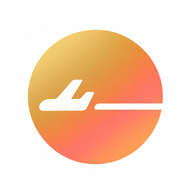
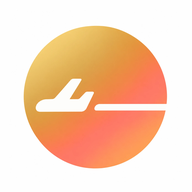
主圖示改為原尺寸縮小 10%（原本 15% 太多）(v2026.10.30.25)

diff --git a/app.js b/app.js
@@ -4,7 +4,7 @@
 ═══════════════════════════════════════ */
 
 /* 版本號：顯示在「設定」頁最下方，每次推送更新時一起遞增，用來確認手機拿到的是不是最新版 */
-const APP_VERSION = '2026.10.30.24';
+const APP_VERSION = '2026.10.30.25';
 
 /* ─── SVG Icon Strings ─── */
 const EDIT_SVG  = `<svg xmlns="http://www.w3.org/2000/svg" viewBox="0 -960 960 960"><path d="M200-200h57l391-391-57-57-391 391v57Zm-80 80v-170l528-527q12-11 26.5-17t30.5-6q16 0 31 6t26 18l55 56q12 11 17.5 26t5.5 30q0 16-5.5 30.5T817-647L290-120H120Zm640-584-56-56 56 56Zm-141 85-28-29 57 57-29-28Z"/></svg>`;

diff --git a/index.html b/index.html
@@ -8,8 +8,8 @@
   <meta name="apple-mobile-web-app-title" content="旅遊誌">
   <meta name="theme-color" content="#ffffff">
   <link rel="manifest" href="manifest.json">
-  <link rel="apple-touch-icon" href="icon-512.png?v=10">
-  <link rel="icon" type="image/png" sizes="192x192" href="icon-192.png?v=10">
+  <link rel="apple-touch-icon" href="icon-512.png?v=11">
+  <link rel="icon" type="image/png" sizes="192x192" href="icon-192.png?v=11">
   <title>旅遊誌</title>
   <link rel="stylesheet" href="style.css">
 </head>
